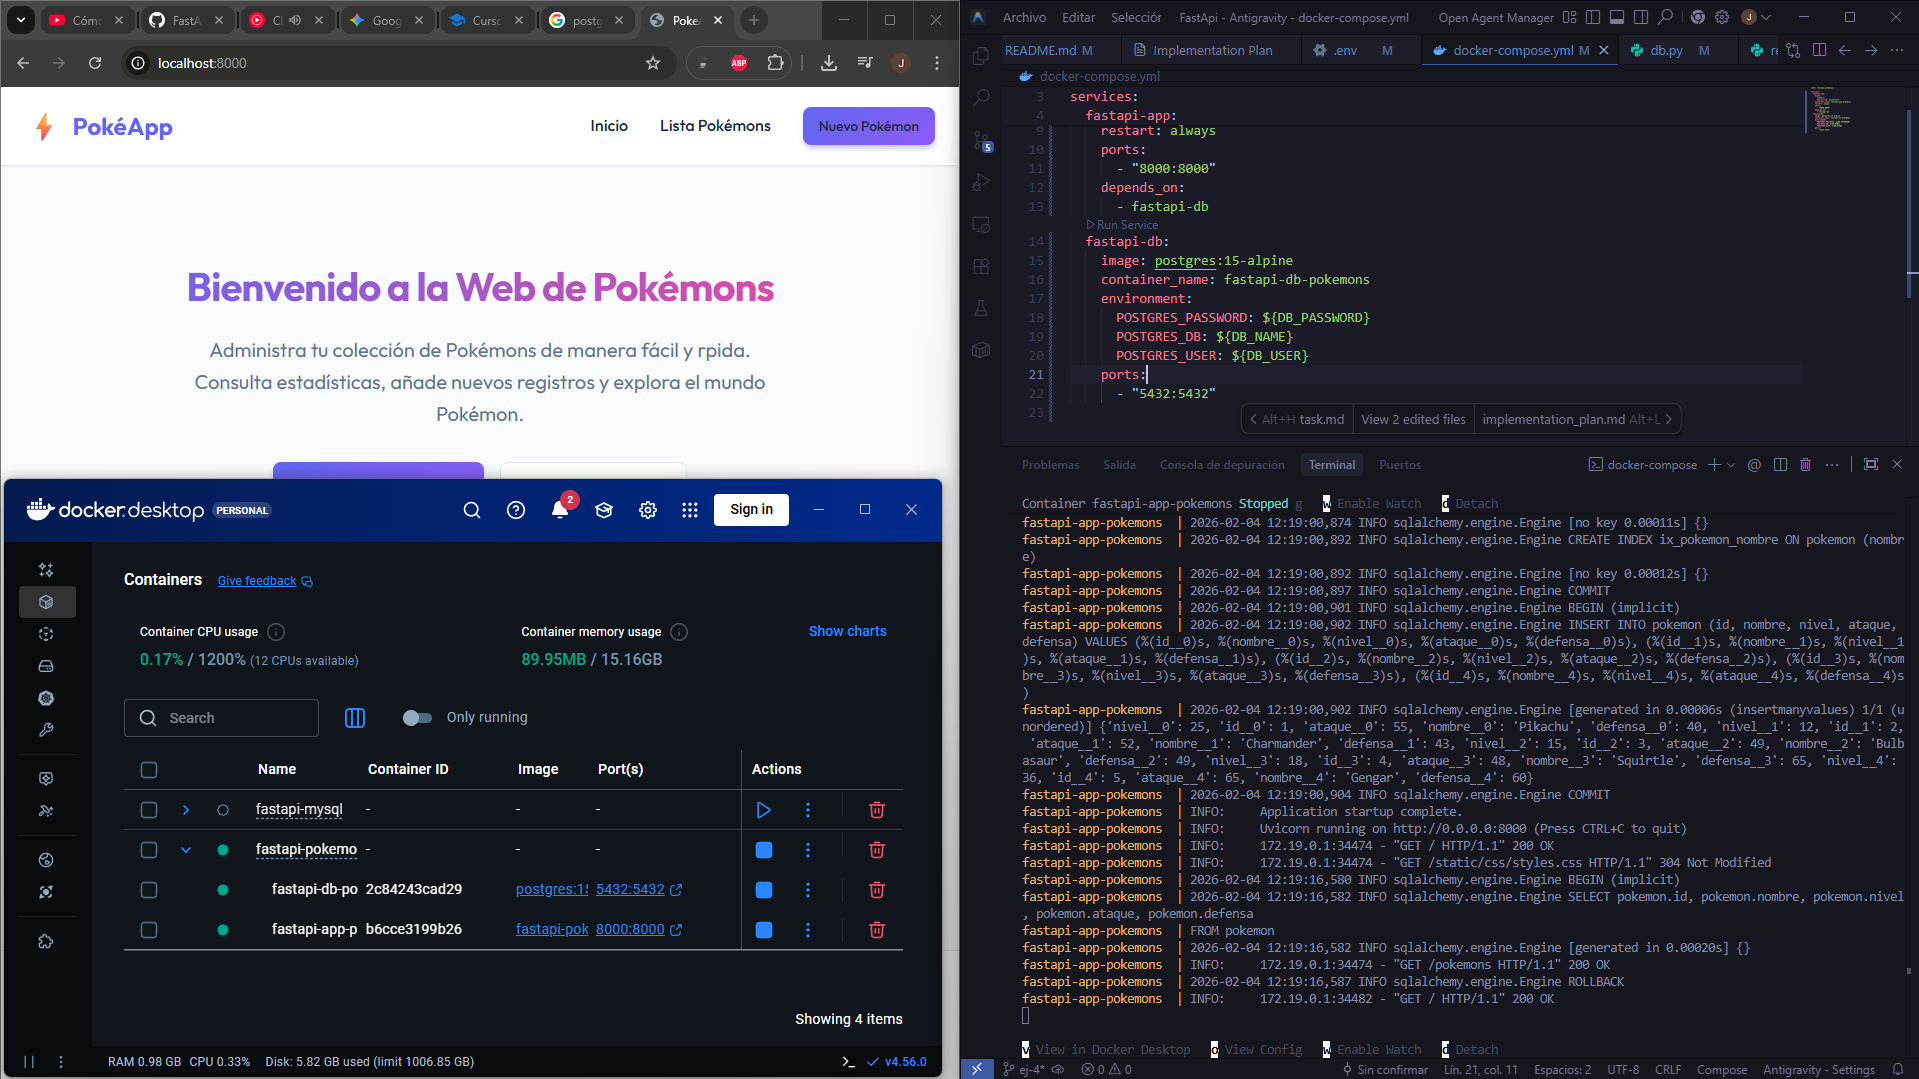
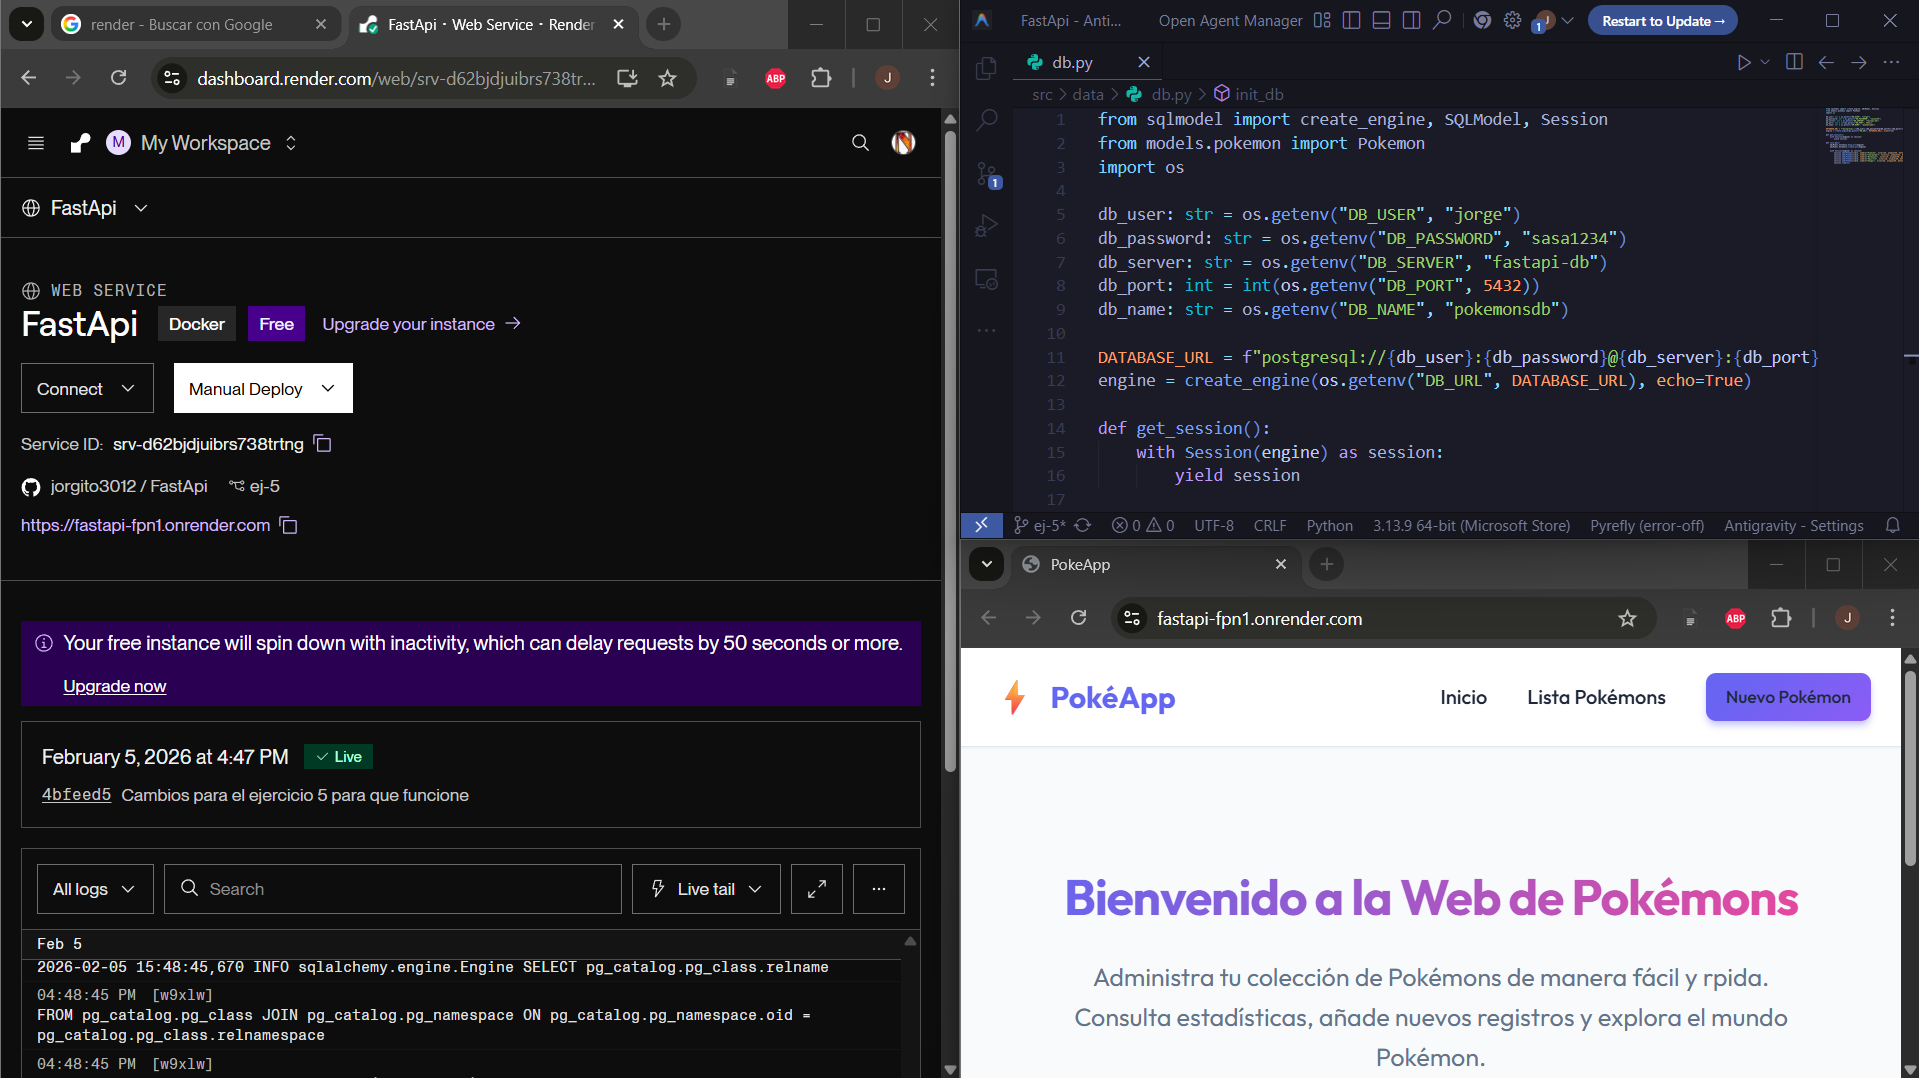
Cambios para el ejercicio 5 cambiando el README.md para que incuya el tutorial de render

diff --git a/FUNCIONAMIENTO/README.md b/FUNCIONAMIENTO/README.md
@@ -61,3 +61,32 @@ Para conectar Python con PostgreSQL, hemos elegido el driver **`psycopg2-binary`
 
 ---
 Autor: Jorge Narbona Gallego
+
+## ☁ Despliegue en Render
+
+Este proyecto está configurado para desplegarse fácilmente en **Render** utilizando Docker. Sigue estos pasos:
+
+### 1. Crear la Base de Datos (PostgreSQL)
+El primer paso es crear el servicio de base de datos donde se almacenarán los pokémon.
+
+1. Entra en tu dashboard de [Render](https://dashboard.render.com/).
+2. Haz clic en **New +** y selecciona **PostgreSQL**.
+3. Dale un nombre (ej. `fastapi-db`) y configura el resto de opciones (la capa gratuita es suficiente).
+4. Una vez creada, espera a que esté disponible y busca la sección **Internal Database URL**.
+5. Copia esa URL completa.
+   - Tendrá un formato similar a: `postgres://usuario:password@hostname:5432/basedatos`
+
+### 2. Crear el Servicio Web (Docker)
+Ahora desplegaremos la aplicación FastAPI utilizando la imagen de Docker.
+
+1. En el dashboard, haz clic en **New +** y selecciona **Web Service**.
+2. Conecta tu repositorio de GitHub donde tienes este código.
+3. Elige un nombre para tu servicio.
+4. En **Runtime** (Entorno), selecciona **Docker**.
+5. Render detectará automáticamente el `Dockerfile` en la raíz de tu repositorio.
+6. Desplázate hasta la sección **Environment Variables** y añade la siguiente variable:
+   - **Key**: `DB_URL`
+   - **Value**: *Pega la "Internal Database URL" que copiaste en el paso anterior*.
+7. Haz clic en **Create Web Service**.
+
+Render comenzará a construir la imagen de Docker baseda en tu `Dockerfile`. Una vez finalizado el despliegue, tu aplicación estará online. Gracias al evento `lifespan` definido en `main.py`, la base de datos se inicializará automáticamente con las tablas y datos de prueba la primera vez que arranque.
